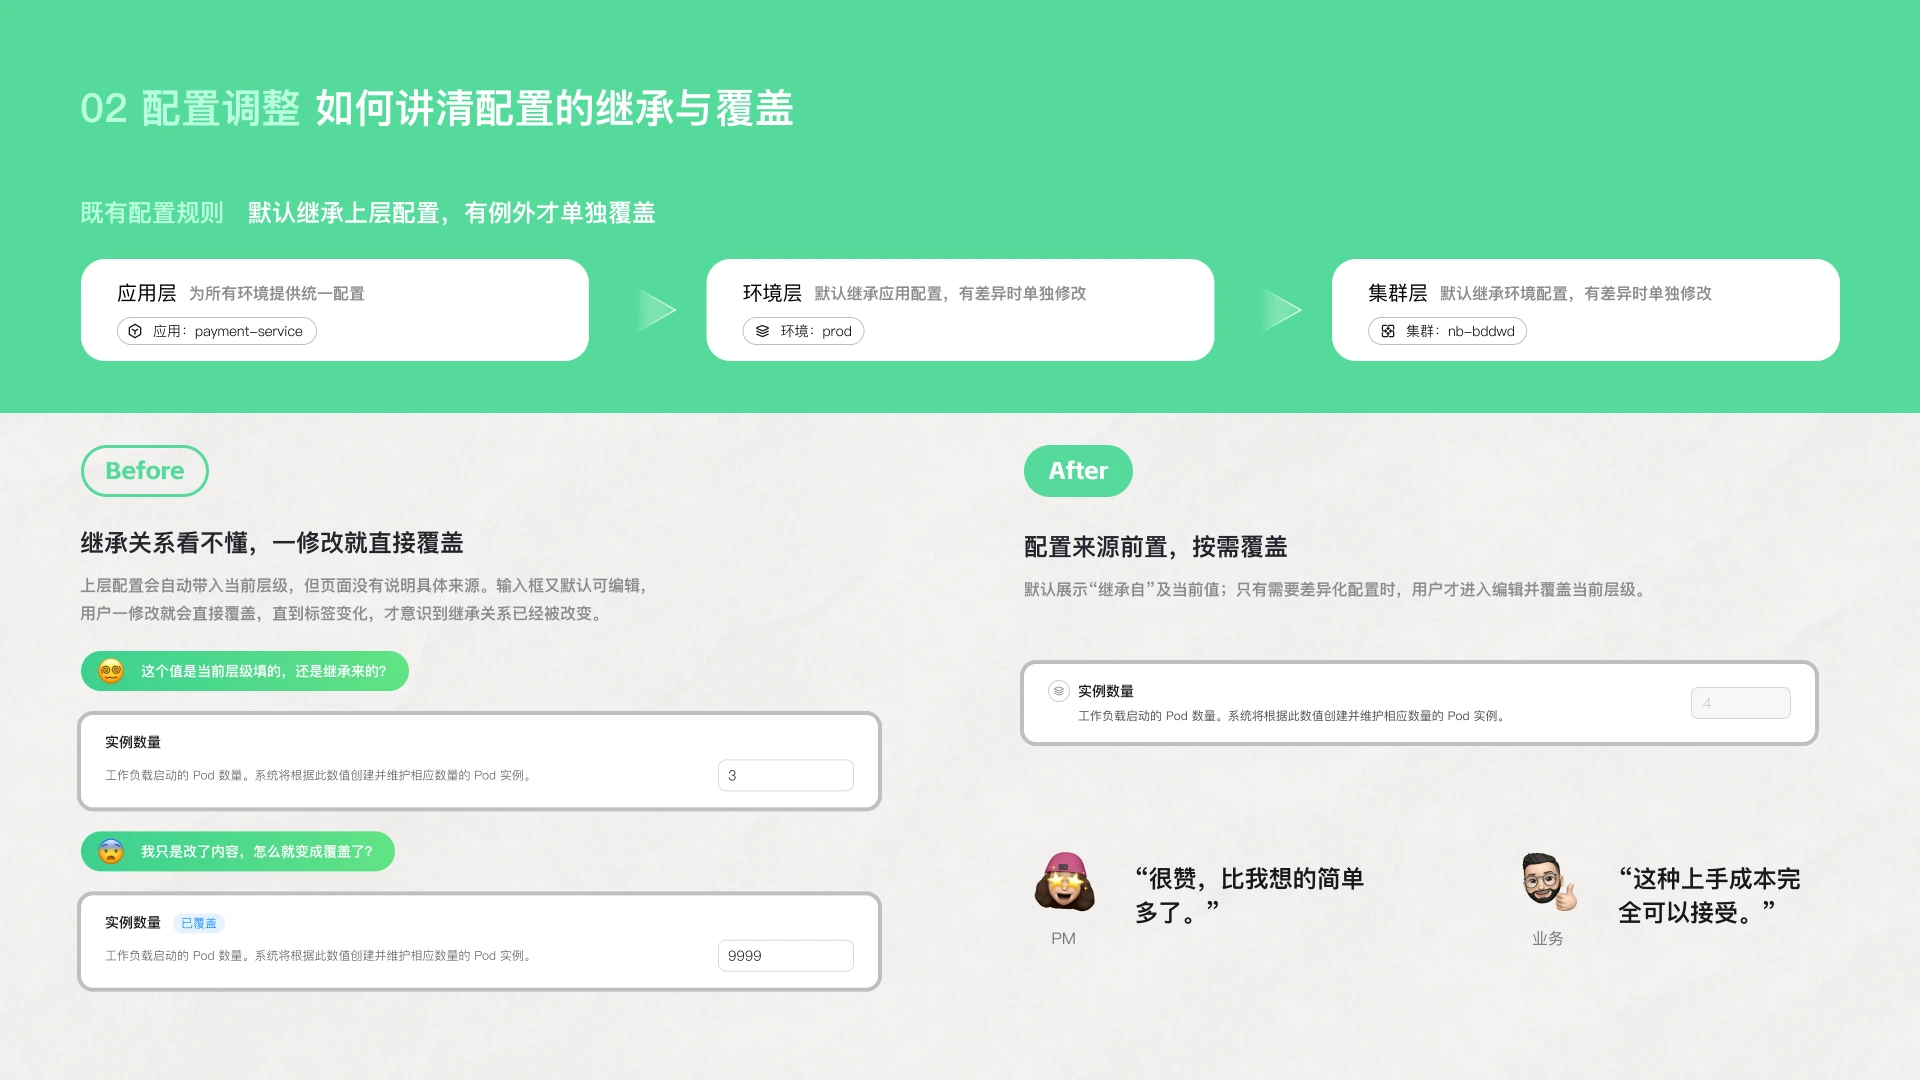
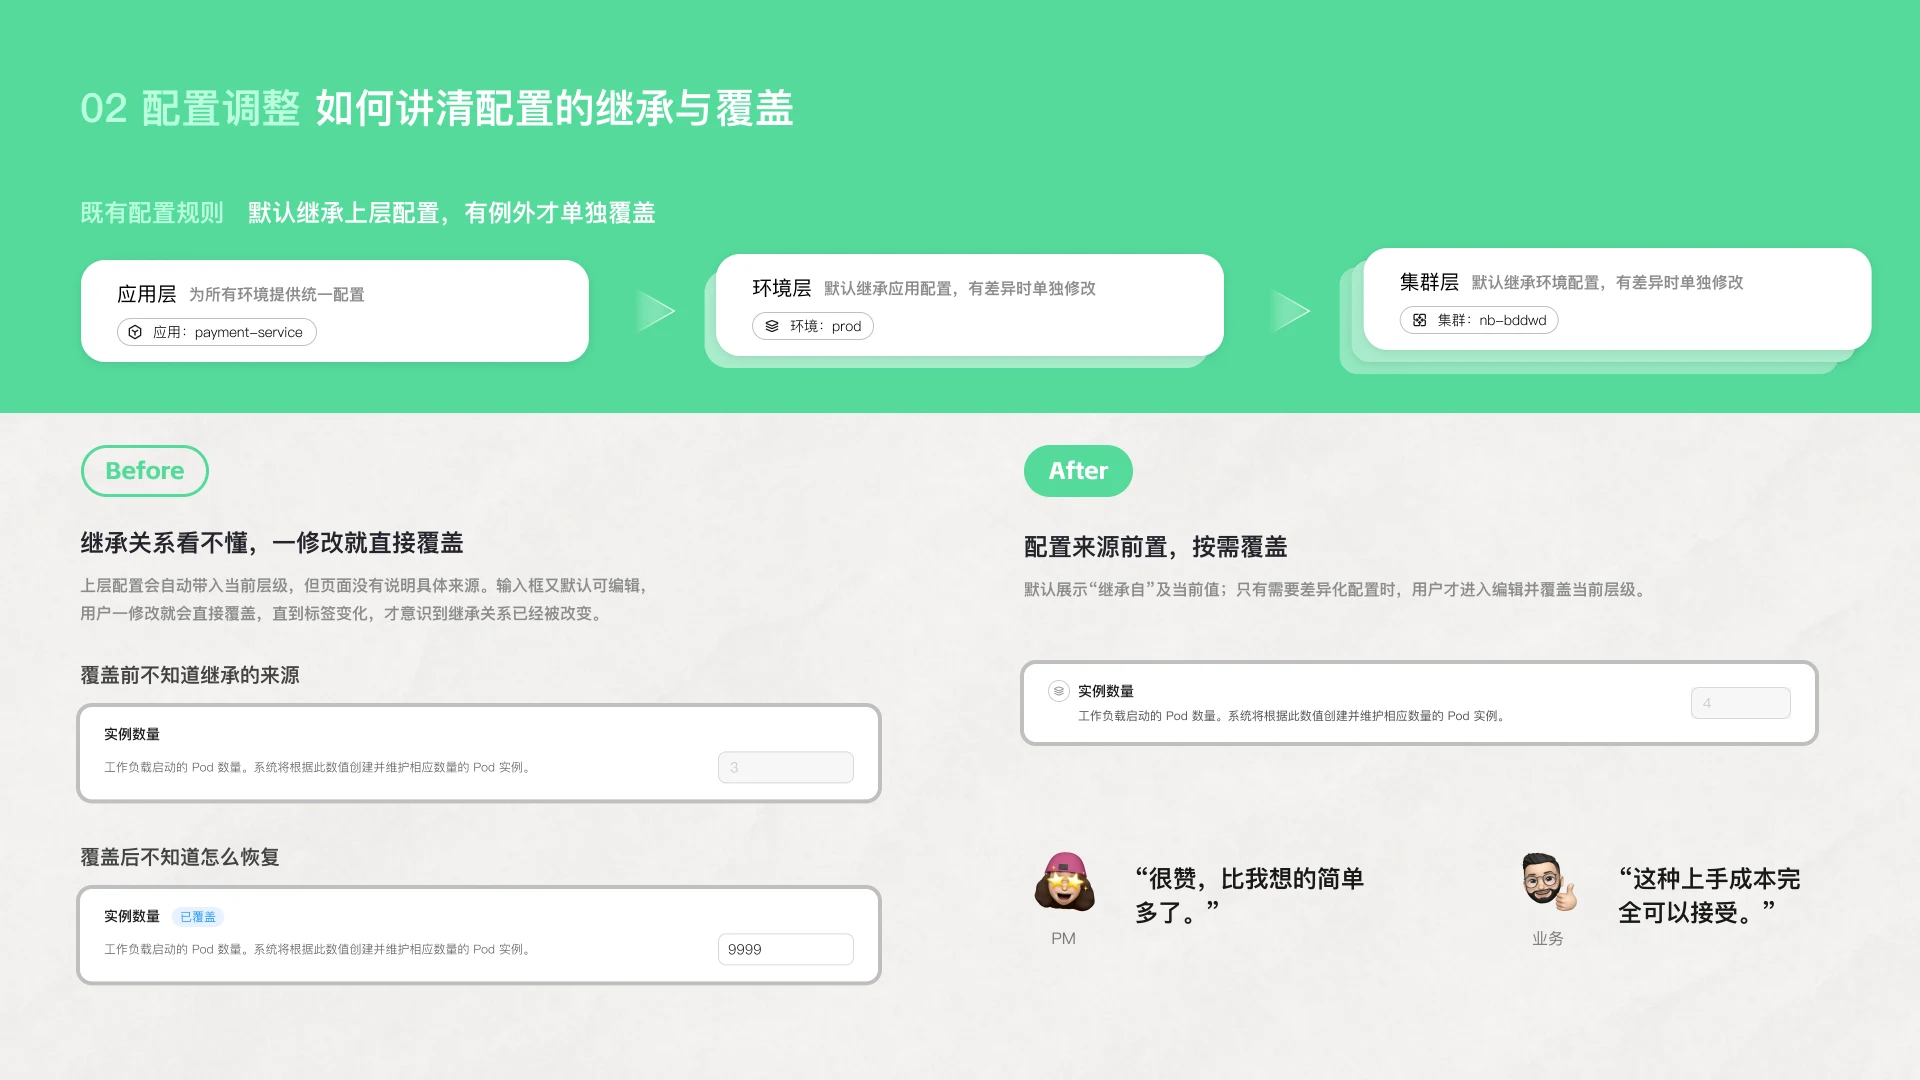
更新 CNAP 与 DODO 页面素材

Changed region(s): [[0.0312, 0.5806, 0.4688, 0.9167], [0.3438, 0.2139, 1.0, 0.3667], [0.0625, 0.2444, 0.1875, 0.3361]]

diff --git a/pages/dodo.html b/pages/dodo.html
@@ -46,8 +46,8 @@
         <img id="dodo-slide-5" data-src="../assets/dodo/pages/page-05.webp" alt="Agent 体验原则" width="1920" height="1080" loading="lazy" decoding="async" />
         <img id="dodo-slide-6" data-src="../assets/dodo/pages/page-06.webp" alt="规范与元素层知识体系基座" width="1920" height="1080" loading="lazy" decoding="async" />
         <img id="dodo-slide-7" data-src="../assets/dodo/pages/page-07.webp" alt="Agent 体验原则与产品规范应用结果" width="1920" height="1080" loading="lazy" decoding="async" />
-        <img id="dodo-slide-8" data-src="../assets/dodo/pages/page-08.webp?v=20260906-31" alt="如何把一次交付，变成可复制的能力" width="1920" height="1080" loading="lazy" decoding="async" />
-        <img id="dodo-slide-9" data-src="../assets/dodo/pages/page-09.webp" alt="AI 设计工作流与 Skills" width="1920" height="1080" loading="lazy" decoding="async" />
+        <img id="dodo-slide-8" data-src="../assets/dodo/pages/page-08.webp?v=20260920-1" alt="如何把一次交付，变成可复制的能力" width="1920" height="1080" loading="lazy" decoding="async" />
+        <img id="dodo-slide-9" data-src="../assets/dodo/pages/page-09.webp?v=20260920-2" alt="AI 设计工作流与 Skills" width="1920" height="1080" loading="lazy" decoding="async" />
         <img id="dodo-slide-10" data-src="../assets/dodo/pages/page-10.webp?v=20260914-01" alt="以设计走查为例，按设计师走查的思路编排 Skill" width="1920" height="1080" loading="lazy" decoding="async" />
         <div id="dodo-slide-11" class="case-slide-frame dodo-download-slide">
           <img data-src="../assets/dodo/pages/page-11.webp?v=20260914-01" alt="一次真实走查，从设计稿到可复现问题" width="1920" height="1080" loading="lazy" decoding="async" />

diff --git a/pages/cnap-case.html b/pages/cnap-case.html
@@ -42,7 +42,7 @@
           </div>
           <button class="cnap-preview-toggle" type="button" hidden aria-label="暂停演示">暂停演示</button>
         </div>
-        <img data-src="../assets/cnap-case/page-10-config-update.webp?v=20260915-1" alt="CNAP 配置调整方案：讲清配置的继承与覆盖" data-section-kicker="配置调整" data-section-title="讲清配置的继承与覆盖" width="1920" height="1080" loading="lazy" decoding="async" />
+        <img data-src="../assets/cnap-case/page-10-config-update.webp?v=20260920-5" alt="CNAP 配置调整方案：讲清配置的继承与覆盖" data-section-kicker="配置调整" data-section-title="讲清配置的继承与覆盖" width="1920" height="1080" loading="lazy" decoding="async" />
         <div class="case-slide-frame cnap-interactive-slide cnap-scheme1-preview-slide" id="status-preview">
           <img data-src="../assets/cnap-case/page-11-revised.webp" alt="CNAP 配置状态外显方案" data-section-kicker="方案一" data-section-title="状态外显，一眼看懂" width="1920" height="1080" loading="lazy" decoding="async" />
           <div class="cnap-live-scheme1" data-scheme1-demo aria-hidden="true">
